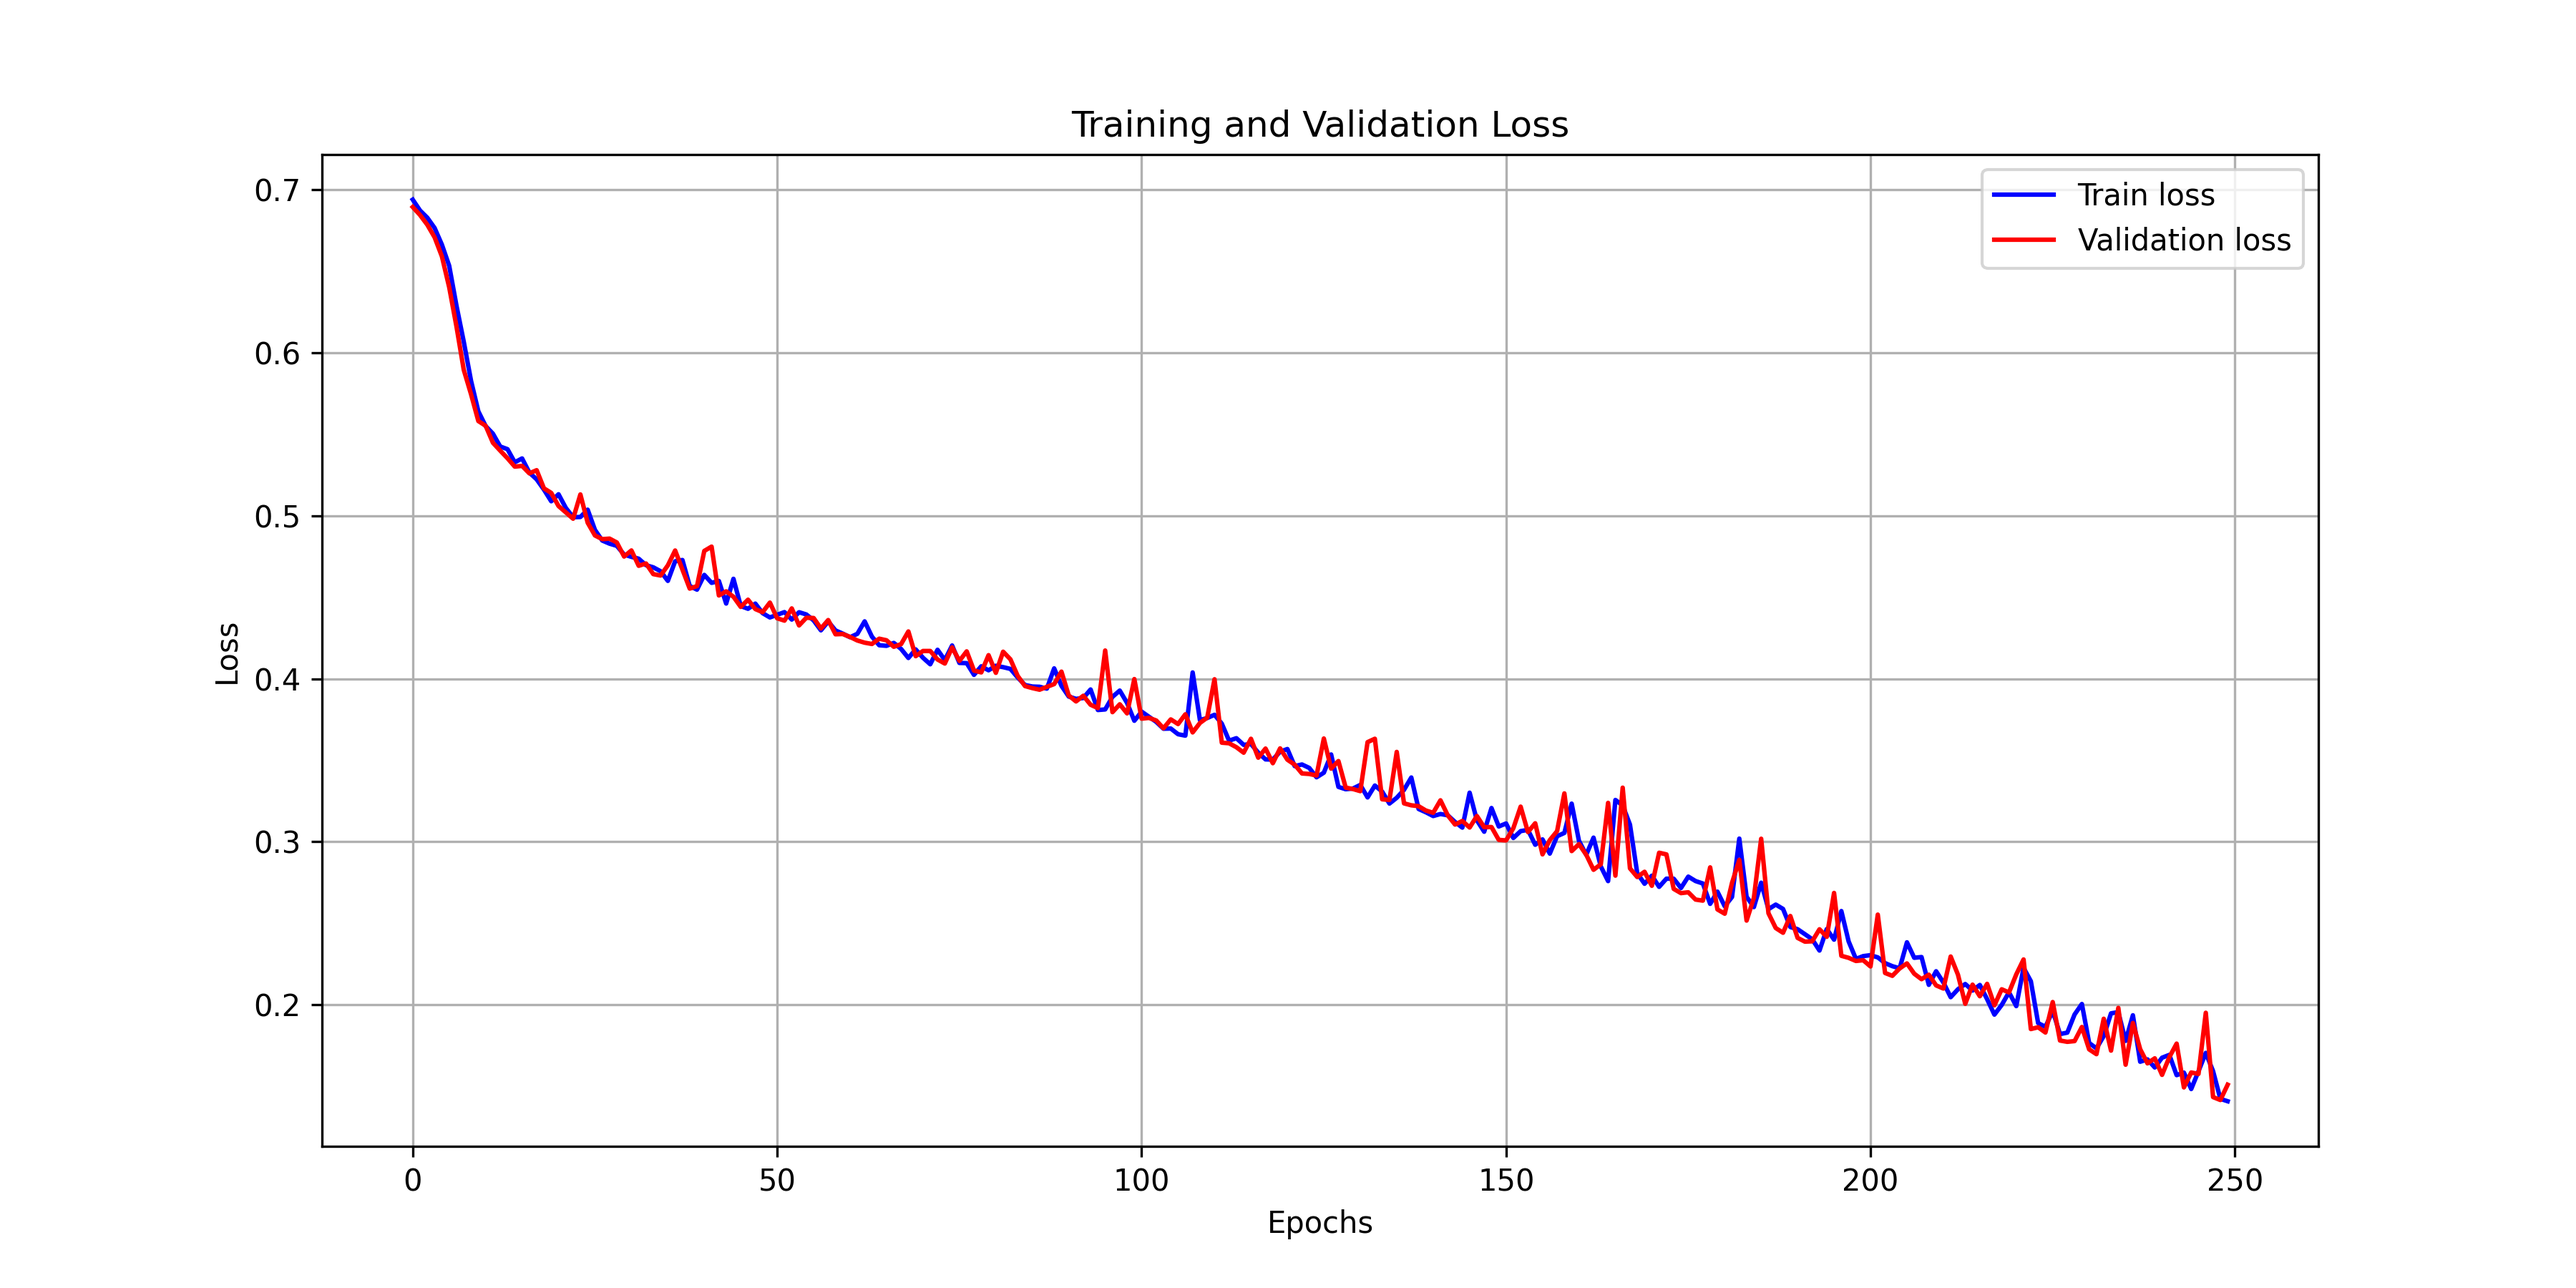
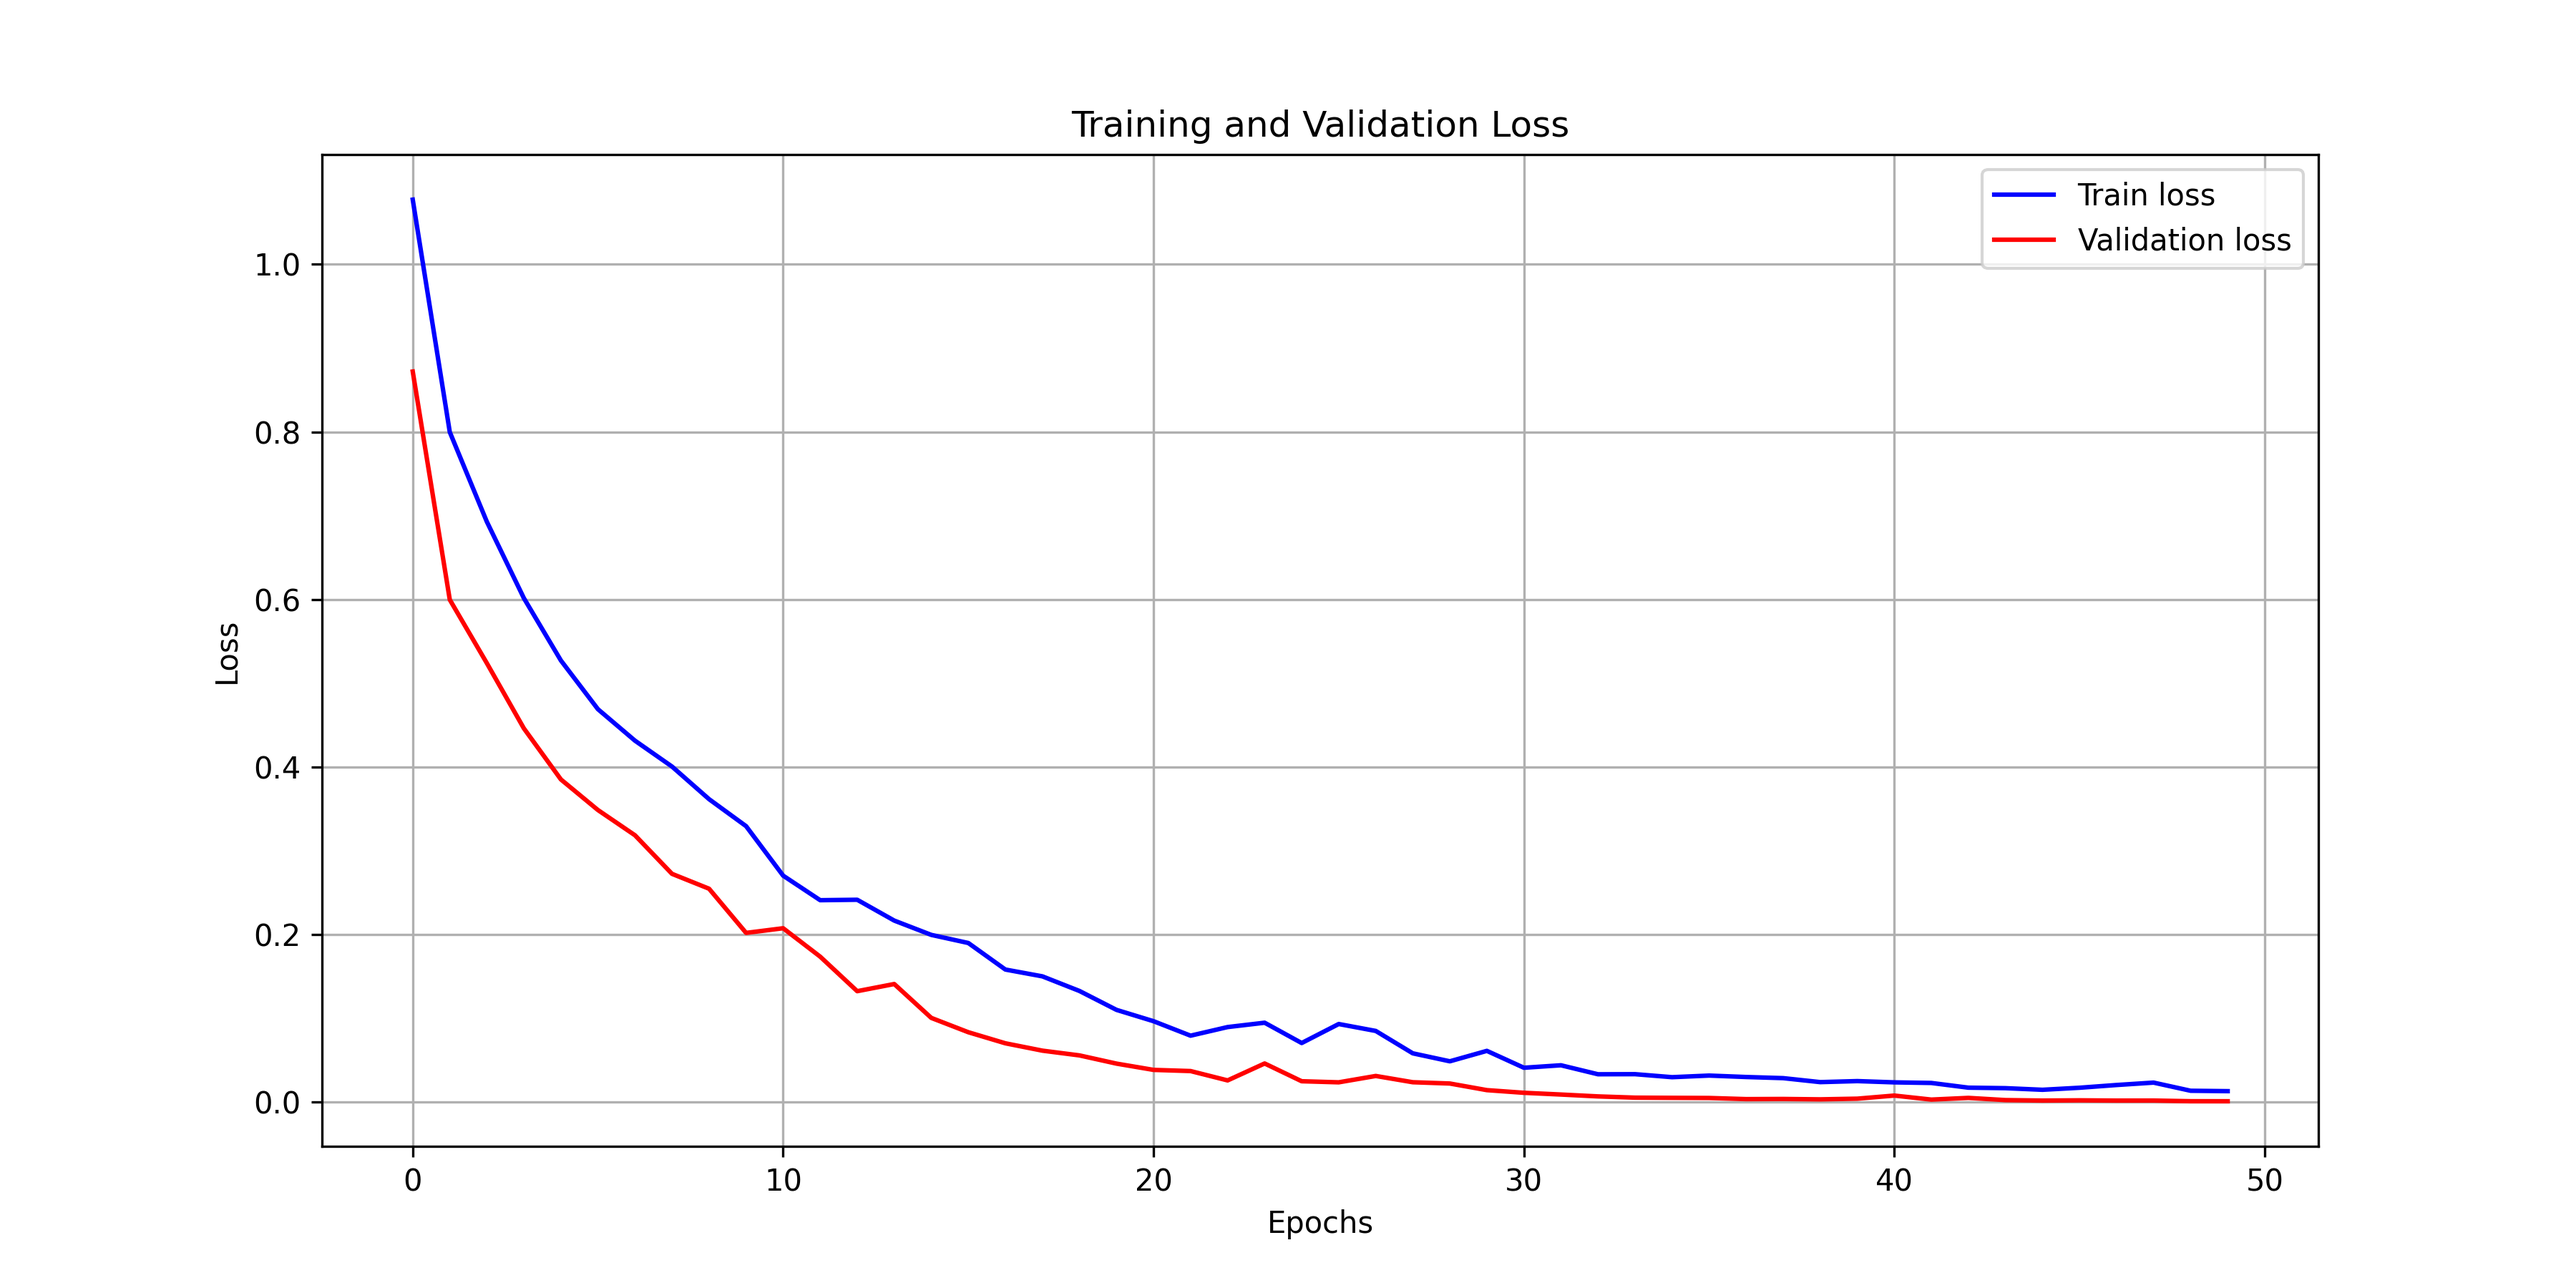
Update training script and refresh result plots

diff --git a/train.py b/train.py
@@ -15,68 +15,67 @@ device = torch.device("cuda:0" if torch.cuda.is_available() else "cpu")
 print(f"Using device: {device}")
 
 
-# DATA LOADING AND PREPROCESSING
+
+# Data Loading and Preprocessing
 print("\n--- Loading and Preprocessing Data ---")
-dataset_path = "/home/adam/.cache/kagglehub/datasets/ahmedhamada0/brain-tumor-detection/versions/12"
+dataset_path = kagglehub.dataset_download("ahmedsorour1/mri-for-brain-tumor-with-bounding-boxes")
 print(f"Using dataset from: {dataset_path}")
 
-tumor_images = []
-no_tumor_images = []
+class_map = {
+    'Glioma': 0,
+    'Meningioma': 1,
+    'No Tumor': 2,
+    'Pituitary': 3
+}
+all_images = []
+all_labels = []
 extensions = ['*.jpg', '*.JPG', '*.jpeg', '*.png']
+data_folders_to_scan = [os.path.join(dataset_path, 'Train'), os.path.join(dataset_path, 'Val')]
 
-# Load "yes" (tumor) images from the root dataset directory
-print("Searching for 'yes' tumor images...")
-all_yes_files = []
-for ext in extensions:
-    path_pattern = os.path.join(dataset_path, 'yes', ext)
-    all_yes_files.extend(glob.glob(path_pattern))
-print(f"Found {len(all_yes_files)} files in 'yes' folder.")
+for folder in data_folders_to_scan:
+    if not os.path.exists(folder):
+        continue
 
-for file_path in all_yes_files:
-    img_bgr = cv2.imread(file_path)
-    if img_bgr is not None:
-        img_resized = cv2.resize(img_bgr, (128, 128))
-        img_rgb = cv2.cvtColor(img_resized, cv2.COLOR_BGR2RGB)
-        tumor_images.append(img_rgb)
+    for class_name, label_idx in class_map.items():
+        image_list = []
+        class_path = os.path.join(folder, class_name, 'images')
 
-# Load "no" (healthy) images from the root dataset directory
-print("\nSearching for 'no' healthy images...")
-all_no_files = []
-for ext in extensions:
-    path_pattern = os.path.join(dataset_path, 'no', ext)
-    all_no_files.extend(glob.glob(path_pattern))
-print(f"Found {len(all_no_files)} files in 'no' folder.")
-    
-for file_path in all_no_files:
-    img_bgr = cv2.imread(file_path)
-    if img_bgr is not None:
-        img_resized = cv2.resize(img_bgr, (128, 128))
-        img_rgb = cv2.cvtColor(img_resized, cv2.COLOR_BGR2RGB)
-        no_tumor_images.append(img_rgb)
+        if not os.path.exists(class_path):
+            continue
 
-print(f"\nSuccessfully loaded {len(tumor_images)} images with tumor.")
-print(f"Successfully loaded {len(no_tumor_images)} healthy images.")
+        files = []
+        for ext in extensions:
+            files.extend(glob.glob(os.path.join(class_path, ext)))
 
-# Create final data arrays
-all_images = np.concatenate([np.array(tumor_images), np.array(no_tumor_images)], axis=0)
-all_labels = np.concatenate([np.ones(len(tumor_images)), np.zeros(len(no_tumor_images))])
+        for file_path in files:
+            img_bgr = cv2.imread(file_path)
+            if img_bgr is not None:
+                img_resized = cv2.resize(img_bgr, (128, 128))
+                img_rgb = cv2.cvtColor(img_resized, cv2.COLOR_BGR2RGB)
+                image_list.append(img_rgb)
+
+        all_images.extend(image_list)
+        all_labels.extend([label_idx] * len(image_list))
+        print(f"Loaded {len(image_list)} images for class '{class_name}' from {os.path.basename(folder)}.")
+all_images = np.array(all_images)
+all_labels = np.array(all_labels)
 
 print(f"\nFinal shape of all images: {all_images.shape}")
-print(f"Final shape of all labels: {all_labels.shape}")
+print(f"\nFinal shape of all labels: {all_labels.shape}")
 
 
-# CUSTOM PYTORCH DATASET CLASS
+# Custom Pytorch Dataset Class
 class MRIDataset(Dataset):
     def __init__(self, images, labels):
     	# Split data into training and validation sets
         X_train, X_val, y_train, y_val = train_test_split(
-            images, labels, test_size=0.2, random_state=42, stratify=labels
+            images, labels, test_size=0.3, random_state=42, stratify=labels
         )
         # Normalize data and convert to tensors
         self.X_train = torch.tensor(X_train / 255.0, dtype=torch.float32).permute(0, 3, 1, 2)
-        self.y_train = torch.tensor(y_train, dtype=torch.float32)
+        self.y_train = torch.tensor(y_train, dtype=torch.long)
         self.X_val = torch.tensor(X_val / 255.0, dtype=torch.float32).permute(0, 3, 1, 2)
-        self.y_val = torch.tensor(y_val, dtype=torch.float32)
+        self.y_val = torch.tensor(y_val, dtype=torch.long)
         self.mode = 'train'
 
     def __len__(self):
@@ -84,13 +83,16 @@ class MRIDataset(Dataset):
             
     def __getitem__(self, index):
         if self.mode == 'train':
-            return self.X_train[index], self.y_train[index].unsqueeze(0)
+            image = self.X_train[index]
+            label = self.y_train[index]
         else:
-            return self.X_val[index], self.y_val[index].unsqueeze(0)
+            image = self.X_val[index]
+            label = self.y_val[index]
+        
+        return image, label
 
 
-# CREATE DATASET AND DATALOADERS
-
+# Create Dataset and Dataloaders
 print("\n--- Creating Dataset and DataLoaders ---")
 mri_dataset = MRIDataset(images=all_images, labels=all_labels)
 
@@ -103,37 +105,43 @@ val_loader = DataLoader(mri_dataset, batch_size=32, shuffle=False)
 print(f"Number of validation samples: {len(mri_dataset)}")
 
 
-# CNN MODEL DEFINITION
+# CNN Model Definition
 class CNN(nn.Module):
-    def __init__(self):
+    def __init__(self, num_classes=4):
         super(CNN, self).__init__()
         self.cnn_model = nn.Sequential(
-            nn.Conv2d(in_channels=3, out_channels=6, kernel_size=5), nn.Tanh(),
-            nn.AvgPool2d(kernel_size=2, stride=5),
-            nn.Conv2d(in_channels=6, out_channels=16, kernel_size=5), nn.Tanh(),
-            nn.AvgPool2d(kernel_size=2, stride=5)
+            nn.Conv2d(in_channels=3, out_channels=6, kernel_size=5),# W + 2P - K /S + 1
+            nn.BatchNorm2d(6),
+            nn.ReLU(),
+            nn.MaxPool2d(kernel_size=2, stride=2),
+            nn.Conv2d(in_channels=6, out_channels=16, kernel_size=5),
+            nn.BatchNorm2d(16),
+            nn.ReLU(),
+            nn.MaxPool2d(kernel_size=2, stride=2)
         )
         with torch.no_grad():
             num_features = self.cnn_model(torch.randn(1, 3, 128, 128)).flatten(1).shape[1]
-        print(f"\nCalculated number of features: {num_features}")
         self.fc_model = nn.Sequential(
-            nn.Linear(in_features=num_features, out_features=120), nn.Tanh(),
-            nn.Linear(in_features=120, out_features=84), nn.Tanh(),
-            nn.Linear(in_features=84, out_features=1)
+            nn.Linear(in_features=num_features, out_features=120),
+            nn.ReLU(),
+            nn.Dropout(p=0.5),
+            nn.Linear(in_features=120, out_features=84),
+            nn.ReLU(),
+            nn.Linear(in_features=84, out_features=num_classes)
         )
     def forward(self, x):
         x = self.cnn_model(x)
         x = torch.flatten(x, 1)
         x = self.fc_model(x)
-        return torch.sigmoid(x)
+        return x
 
 
-# TRAINING AND VALIDATION LOOP
+# Training & Validation Loop
 print("\n--- Starting Model Training ---")
-model = CNN().to(device)
+model = CNN(num_classes=4).to(device)
 optimizer = torch.optim.Adam(model.parameters(), lr=0.0001)
-criterion = nn.BCELoss()
-EPOCHS = 250
+criterion = nn.CrossEntropyLoss()
+EPOCHS = 50
 
 epoch_train_losses = []
 epoch_val_losses = []
@@ -164,8 +172,7 @@ for epoch in range(1, EPOCHS + 1):
     if epoch % 10 == 0:
         print(f'Epoch: {epoch}/{EPOCHS}\tTrain Loss: {np.mean(train_losses):.6f}\tValidation Loss: {np.mean(val_losses):.6f}')
 
-
-# FINAL EVALUATION AND RESULTS
+# Final Evaluation & Results
 print("\n--- Final Model Evaluation ---")
 model.eval()
 outputs = []
@@ -174,29 +181,30 @@ with torch.no_grad():
     for images_batch, labels_batch in val_loader:
         images_batch, labels_batch = images_batch.to(device), labels_batch.to(device)
         y_hat = model(images_batch)
-        outputs.append(y_hat.cpu().numpy())
+        predictions = torch.argmax(y_hat, dim=1)
+        outputs.append(predictions.cpu().numpy())
         y_true.append(labels_batch.cpu().numpy())
 
-outputs = np.concatenate(outputs).squeeze()
-y_true = np.concatenate(y_true).squeeze()
+outputs = np.concatenate(outputs)
+y_true = np.concatenate(y_true)
 
-def threshold(scores, threshold_value=0.5):
-    return (scores > threshold_value).astype(int)
 
-accuracy = accuracy_score(y_true, threshold(outputs))
+accuracy = accuracy_score(y_true, outputs)
 print(f"Final Model Accuracy on Validation Set: {accuracy:.4f}")
 if not os.path.exists('results'):
     os.makedirs('results')
-# Plot confusion matrix
-cm = confusion_matrix(y_true, threshold(outputs))
-plt.figure(figsize=(8, 6))
-sns.heatmap(cm, annot=True, fmt='g', cmap='Blues', xticklabels=['Healthy', 'Tumor'], yticklabels=['Healthy', 'Tumor'])
+
+# Plot Confusion Matrix
+class_names = list(class_map.keys())
+cm = confusion_matrix(y_true, outputs)
+plt.figure(figsize=(10, 8))
+sns.heatmap(cm, annot=True, fmt='g', cmap='Blues', xticklabels=class_names, yticklabels=class_names)
 plt.xlabel('Predicted Labels'); plt.ylabel('True Labels'); plt.title('Confusion Matrix')
 plt.savefig('results/confusion_matrix.png', dpi=300)
 plt.show()
 plt.close()
 
-# Plot loss curves
+# Plot Loss Curves
 plt.figure(figsize=(12, 6))
 plt.plot(epoch_train_losses, c='b', label='Train loss')
 plt.plot(epoch_val_losses, c='r', label='Validation loss')
@@ -205,7 +213,8 @@ plt.savefig('results/loss_curves.png', dpi=300)
 plt.show()
 plt.close()
 
-# VISUALIZE FEATURE MAPS
+
+# Visualize Feature Maps
 print("\n--- Visualizing Feature Maps ---")
 model.eval()
 mri_dataset.mode = 'val'
@@ -244,6 +253,7 @@ for layer_output, layer_name in zip(feature_map_outputs, layer_names):
         axes[i].axis("off")
         
     plt.tight_layout(rect=[0, 0.03, 1, 0.95])
+
     plt.show()
     plt.close()
 
